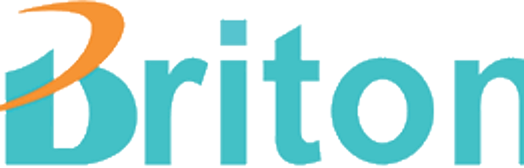
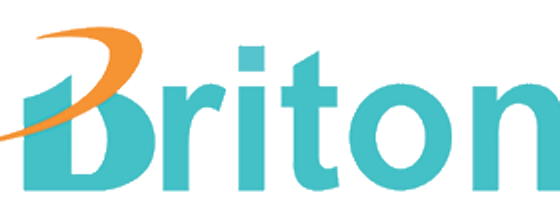
fix: refine Briton asset and dock colors

diff --git a/styles.css b/styles.css
@@ -158,7 +158,7 @@ img{max-width:100%}
   transition:transform .25s var(--ease),border-color .25s,background .25s;
 }
 .brands img{display:block;width:auto;height:27px;max-width:100%;object-fit:contain;transition:transform .25s var(--ease)}
-.brands img[alt="Briton"]{height:31px}
+.brands img[alt="Briton"]{height:35px}
 .brands li:hover{transform:translateY(-2px);border-color:var(--red);background:rgba(255,255,255,.5)}
 .brands li:hover img{transform:scale(1.04)}
 
@@ -250,7 +250,12 @@ footer small{font-size:8px;letter-spacing:.14em}
   color:var(--ink-soft);text-decoration:none;
   transition:color .2s,transform .2s var(--ease);
 }
-.dock a:hover{color:var(--red);transform:translateY(-2px)}
+.dock a:hover{transform:translateY(-2px)}
+.dock a:nth-child(1):hover{color:#2f7ad6}
+.dock a:nth-child(2):hover{color:#25d366}
+.dock a:nth-child(3):hover{color:#f08a24}
+.dock a:nth-child(4):hover{color:#d62976}
+.dock a:nth-child(5):hover{color:#8b5cf6}
 .dock a:active{transform:scale(.92)}
 .dock svg{width:20px;height:20px;stroke-width:2}
 .dock span{font-size:9px;font-weight:700;white-space:nowrap}

diff --git a/HANDOFF.md b/HANDOFF.md
@@ -26,6 +26,7 @@
 - Completed: added a persistent EN/FA language toggle, translated all static UI copy, translated contact names/titles, and re-rendered the directory by active language.
 - Verified: mobile Persian RTL and English LTR render correctly. All three brand assets load in full color.
 - Updated: all contact avatar circles are neutral at rest. Their contact color appears only on hover or focus.
+- Updated: Briton asset recropped from the supplied original so its orange swoosh is complete and its background is transparent. Dock hover colors now match each communication channel.
 
 Deploy: main is live at https://atlascctv.github.io/Contact/ . Push to BOTH `git push contact main` (atlas/Pages) and `git push origin main` (mirror). HEAD ~6c840b4.
 Render/verify tooling (user rule: only render for asset gen / pre-push checks): Playwright venv `/Users/soeil/Documents/TRADE/OmegaTrader/venv/bin/python3`, Chromium at `~/Library/Caches/ms-playwright/chromium-1208/chrome-mac-arm64/Google Chrome for Testing.app/Contents/MacOS/Google Chrome for Testing`. OG business card source + renderer live in the session scratchpad (`card.html`, `render_card.py`) → outputs assets/atlas-contact-preview.png (bump `?v=` in index.html on change). SVG→webp: render via chromium then `sips -s format webp in.png --out out.webp`.
